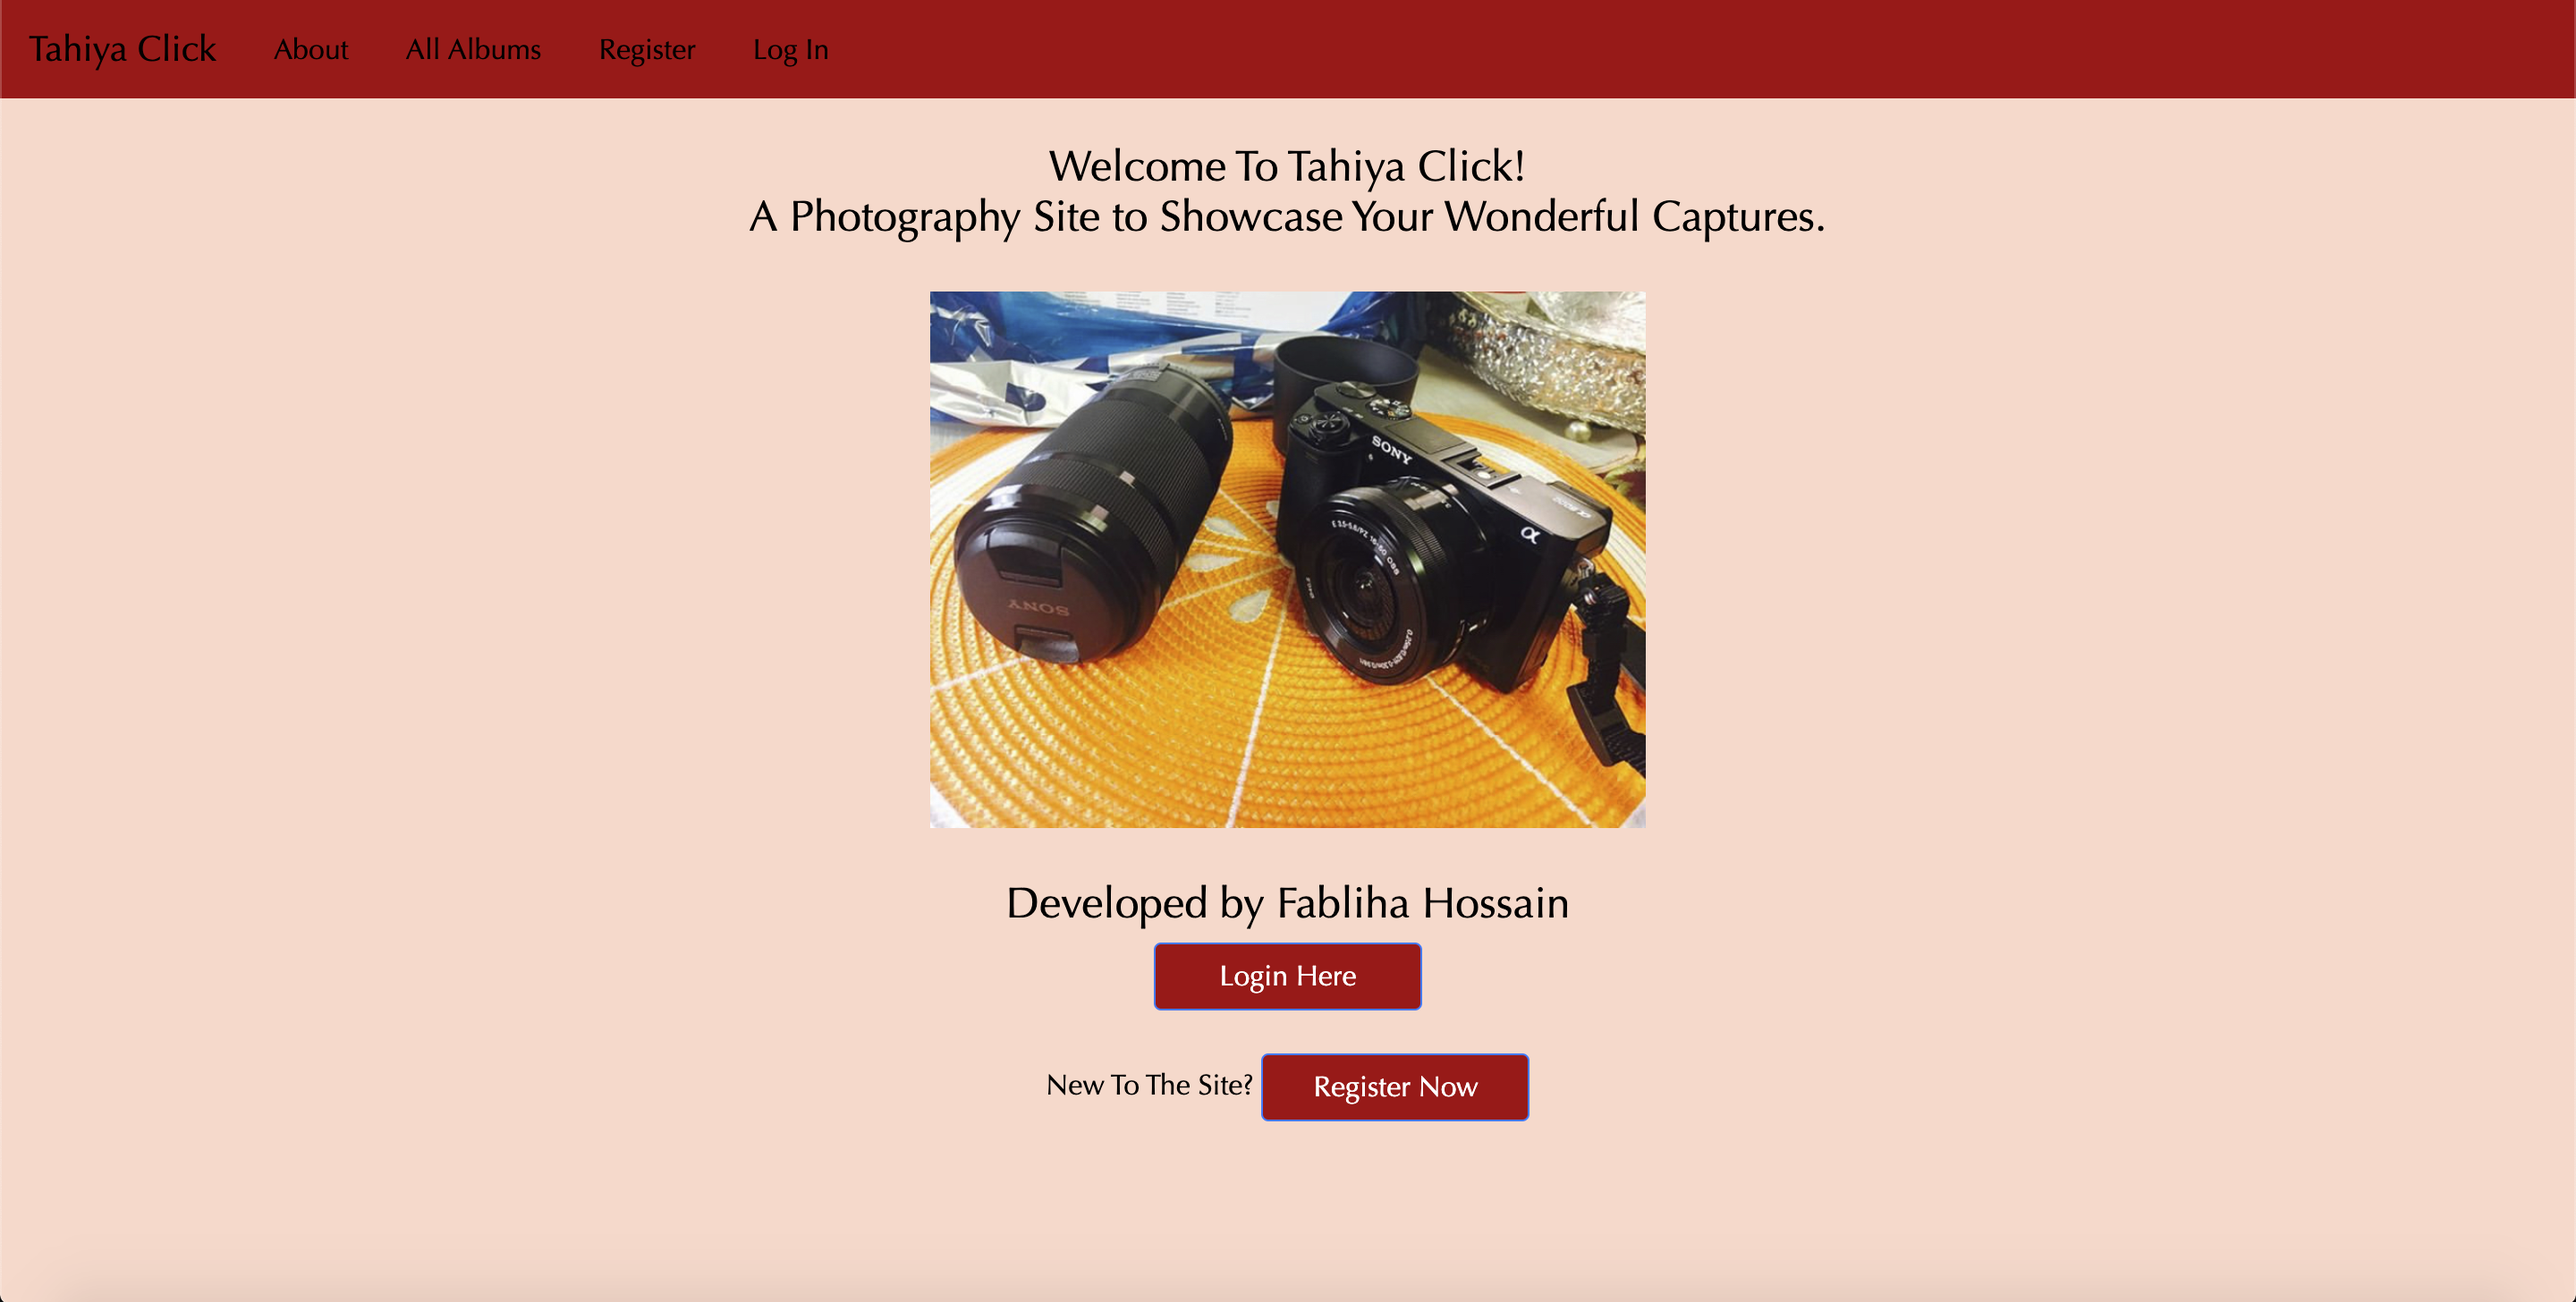
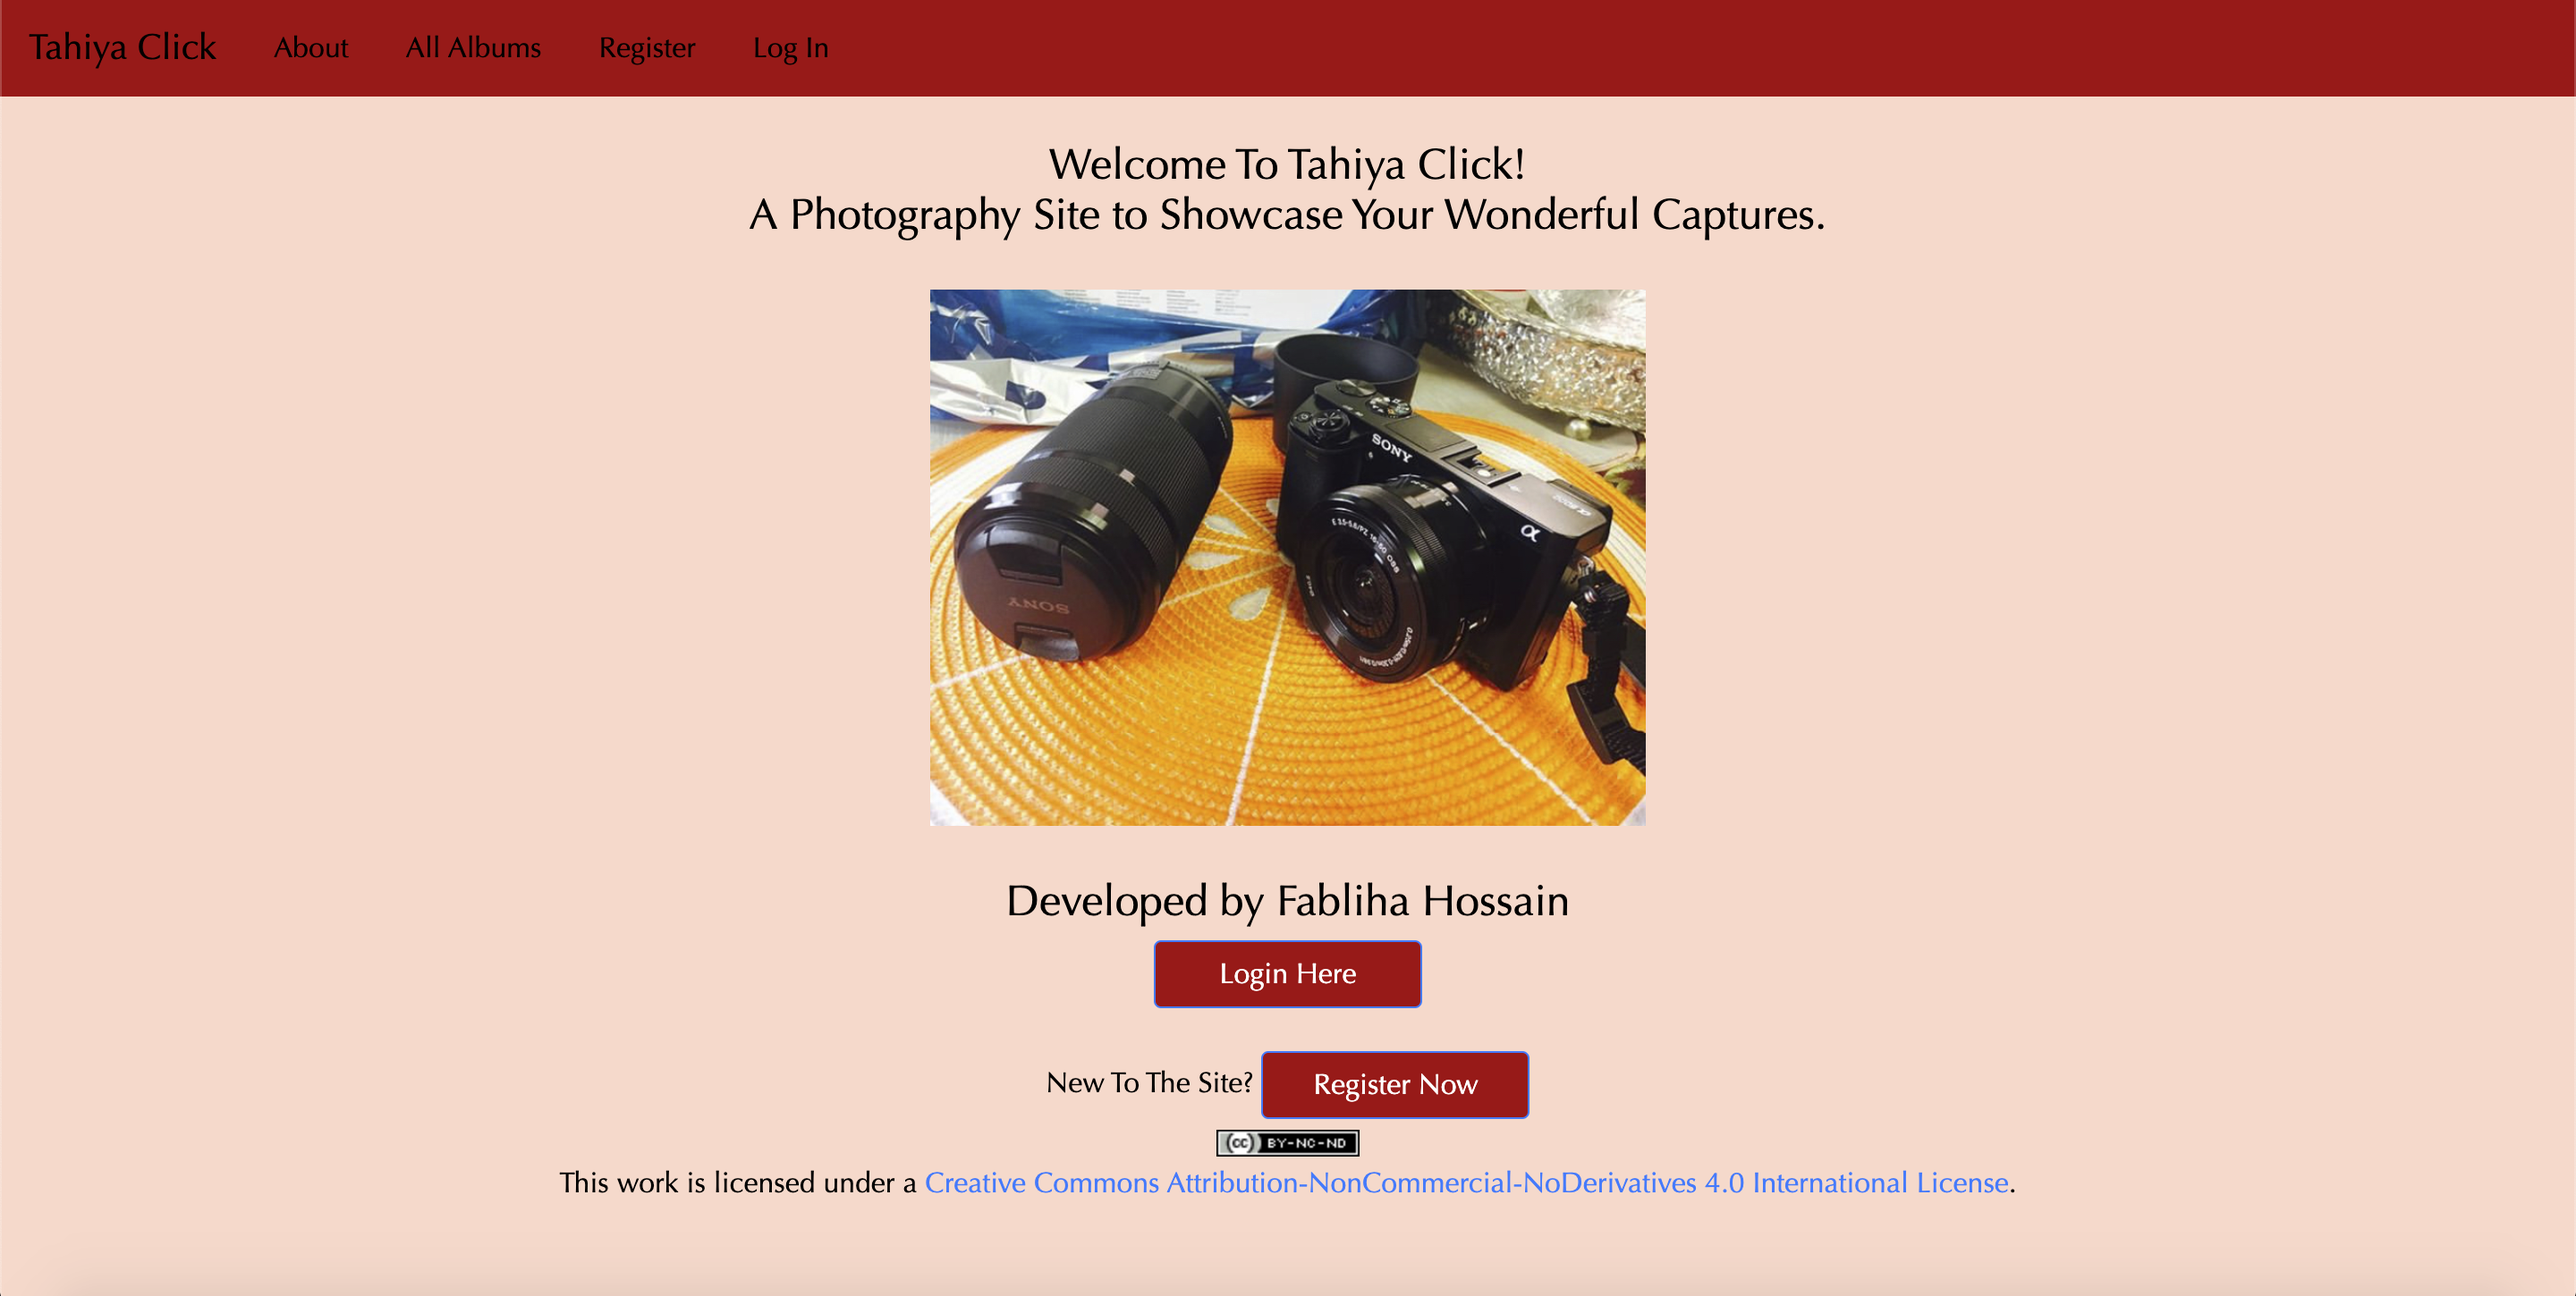
updated with license information

diff --git a/application/templates/index.html b/application/templates/index.html
@@ -70,4 +70,7 @@
 		{% endif %}
 	</body>
 	{% endblock %}
+	<div class = "footer text-center">
+			<a rel="license" href="http://creativecommons.org/licenses/by-nc-nd/4.0/"><img alt="Creative Commons License" style="border-width:0" src="https://i.creativecommons.org/l/by-nc-nd/4.0/80x15.png" /></a><br />This work is licensed under a <a rel="license" href="http://creativecommons.org/licenses/by-nc-nd/4.0/">Creative Commons Attribution-NonCommercial-NoDerivatives 4.0 International License</a>.
+		</div>
 </html>
